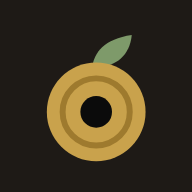
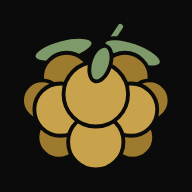
Add files via upload

Changed region(s): [[0.125, 0.125, 0.875, 0.875]]

diff --git a/novidades.html b/novidades.html
@@ -9,11 +9,11 @@
   <meta name="viewport" content="width=device-width, initial-scale=1.0, viewport-fit=cover" />
   <title>Novidades — Hilla</title>
   <meta name="theme-color" content="#0b0b0b" />
-  <link rel="icon" href="favicon.ico?v=3" sizes="any" />
-  <link rel="icon" type="image/png" sizes="32x32" href="favicon-32.png?v=3" />
-  <link rel="apple-touch-icon" href="apple-touch-icon.png?v=3" />
+  <link rel="icon" href="favicon.ico?v=4" sizes="any" />
+  <link rel="icon" type="image/png" sizes="32x32" href="favicon-32.png?v=4" />
+  <link rel="apple-touch-icon" href="apple-touch-icon.png?v=4" />
   <link href="fonts.css?v=1" rel="stylesheet">
-  <link rel="stylesheet" href="style.css?v=31" />
+  <link rel="stylesheet" href="style.css?v=32" />
   <style>.nov-data { font-size: 12px; font-weight: 500; letter-spacing: 0; opacity: 0.45; margin-left: 10px; white-space: nowrap; }</style>
 </head>
 <body>
@@ -38,6 +38,12 @@
       <div class="page-eyebrow">O que mudou</div>
       <h1>Novidades</h1>
       <p class="legal-data">Tudo que mudou na Hilla, da versão mais nova para a mais antiga.</p>
+
+      <h2>v1.27 — Símbolo novo <span class="nov-data">18/10/2026</span></h2>
+      <ul>
+        <li>A Hilla ganhou um símbolo novo: um cacho de hilla, a amora-ártica que dá nome ao app.</li>
+        <li>Ele aparece no ícone do app, na aba do navegador, no topo das páginas e no rodapé.</li>
+      </ul>
 
       <h2>v1.26 — First spin <span class="nov-data">16/10/2026</span></h2>
       <ul>
@@ -200,7 +206,7 @@
       </ul>
     </main>
   </div>
-  <footer class="app-footer app-footer-min"><div class="app-footer-marca"><svg class="app-footer-drupa" viewBox="0 0 64 70" width="22" height="24" aria-hidden="true"><path d="M30 20 C31 13 36 6 50 4 C49 15 41 21 30 20Z" fill="#7E9A6A"/><circle cx="32" cy="43" r="25" fill="#C9A24C"/><circle cx="32" cy="43" r="17" fill="none" stroke="#9E7A2E" stroke-width="3"/><circle cx="32" cy="43" r="8" fill="#0B0B0B"/></svg><div class="app-nav-logo">hi<span>ll</span>a</div></div><p>Tudo que vale guardar.</p><p class="app-footer-legal"><a href="privacidade.html">Privacidade</a> · <a href="termos.html">Termos de Uso</a> · <a href="novidades.html">Novidades</a></p><p class="app-footer-legal">Dados de discos: <a href="https://www.discogs.com/">Discogs</a> · <a href="https://www.last.fm/">Last.fm</a> · Spotify. Sem afiliação.</p></footer>
+  <footer class="app-footer app-footer-min"><div class="app-footer-marca"><img class="app-footer-drupa" src="simbolo-mini.svg" width="24" height="24" alt="" aria-hidden="true"><div class="app-nav-logo">hi<span>ll</span>a</div></div><p>Tudo que vale guardar.</p><p class="app-footer-legal"><a href="privacidade.html">Privacidade</a> · <a href="termos.html">Termos de Uso</a> · <a href="novidades.html">Novidades</a></p><p class="app-footer-legal">Dados de discos: <a href="https://www.discogs.com/">Discogs</a> · <a href="https://www.last.fm/">Last.fm</a> · Spotify. Sem afiliação.</p></footer>
   <script>
     // Páginas públicas: sem verificar sessão no servidor. Mostra o nome de
     // quem já está logado neste navegador; senão, o botão vira "Entrar".

diff --git a/estatisticas.html b/estatisticas.html
@@ -9,13 +9,13 @@
   <meta name="viewport" content="width=device-width, initial-scale=1.0, maximum-scale=1.0, user-scalable=no" />
   <title>Hilla — Estatísticas</title>
   <link href="fonts.css?v=1" rel="stylesheet">
-  <link rel="stylesheet" href="style.css?v=30" />
+  <link rel="stylesheet" href="style.css?v=32" />
   <link rel="manifest" href="manifest.json" />
   <meta name="theme-color" content="#0b0b0b" />
-    <link rel="icon" type="image/x-icon" href="favicon.ico?v=3" />
-  <link rel="icon" type="image/png" sizes="32x32" href="favicon-32.png?v=3" />
-  <link rel="icon" type="image/png" sizes="16x16" href="favicon-16.png?v=3" />
-<link rel="apple-touch-icon" href="apple-touch-icon.png?v=3" />
+    <link rel="icon" type="image/x-icon" href="favicon.ico?v=4" />
+  <link rel="icon" type="image/png" sizes="32x32" href="favicon-32.png?v=4" />
+  <link rel="icon" type="image/png" sizes="16x16" href="favicon-16.png?v=4" />
+<link rel="apple-touch-icon" href="apple-touch-icon.png?v=4" />
   <meta name="apple-mobile-web-app-capable" content="yes" />
   <meta name="apple-mobile-web-app-status-bar-style" content="black-translucent" />
   <meta name="apple-mobile-web-app-title" content="Hilla" />
@@ -163,7 +163,7 @@
 
   <footer class="app-footer">
     <div class="app-footer-grid">
-      <div class="app-footer-brand"><div class="app-footer-marca"><svg class="app-footer-drupa" viewBox="0 0 64 70" width="22" height="24" aria-hidden="true"><path d="M30 20 C31 13 36 6 50 4 C49 15 41 21 30 20Z" fill="#7E9A6A"/><circle cx="32" cy="43" r="25" fill="#C9A24C"/><circle cx="32" cy="43" r="17" fill="none" stroke="#9E7A2E" stroke-width="3"/><circle cx="32" cy="43" r="8" fill="#0B0B0B"/></svg><div class="app-nav-logo">hi<span>ll</span>a</div></div><p>Tudo que vale guardar.</p><p class="app-footer-legal">Dados de discos: <a href="https://www.discogs.com/">Discogs</a> · <a href="https://www.last.fm/">Last.fm</a> · Spotify. Sem afiliação.</p></div>
+      <div class="app-footer-brand"><div class="app-footer-marca"><img class="app-footer-drupa" src="simbolo-mini.svg" width="24" height="24" alt="" aria-hidden="true"><div class="app-nav-logo">hi<span>ll</span>a</div></div><p>Tudo que vale guardar.</p><p class="app-footer-legal">Dados de discos: <a href="https://www.discogs.com/">Discogs</a> · <a href="https://www.last.fm/">Last.fm</a> · Spotify. Sem afiliação.</p></div>
       <div class="app-footer-col"><h5>Navegar</h5><a href="colecao.html">Prateleira</a><a href="wishlist.html">Wishlist</a><a href="audicoes.html">Audições</a></div>
       <div class="app-footer-col"><h5>Inteligência</h5><a href="radar-musical.html">Radar Musical</a><a href="estatisticas.html">Estatísticas</a><a href="importar.html">Importar</a></div>
       <div class="app-footer-col"><h5>Conta</h5><a href="perfil.html">Perfil e configurações</a><a href="privacidade.html">Privacidade</a><a href="termos.html">Termos de Uso</a><a href="novidades.html">Novidades</a></div>

diff --git a/radar-musical.html b/radar-musical.html
@@ -9,13 +9,13 @@
   <meta name="viewport" content="width=device-width, initial-scale=1.0, maximum-scale=1.0, user-scalable=no" />
   <title>Hilla — Radar Musical</title>
   <link href="fonts.css?v=1" rel="stylesheet">
-  <link rel="stylesheet" href="style.css?v=30" />
+  <link rel="stylesheet" href="style.css?v=32" />
   <link rel="manifest" href="manifest.json" />
   <meta name="theme-color" content="#0b0b0b" />
-    <link rel="icon" type="image/x-icon" href="favicon.ico?v=3" />
-  <link rel="icon" type="image/png" sizes="32x32" href="favicon-32.png?v=3" />
-  <link rel="icon" type="image/png" sizes="16x16" href="favicon-16.png?v=3" />
-<link rel="apple-touch-icon" href="apple-touch-icon.png?v=3" />
+    <link rel="icon" type="image/x-icon" href="favicon.ico?v=4" />
+  <link rel="icon" type="image/png" sizes="32x32" href="favicon-32.png?v=4" />
+  <link rel="icon" type="image/png" sizes="16x16" href="favicon-16.png?v=4" />
+<link rel="apple-touch-icon" href="apple-touch-icon.png?v=4" />
   <meta name="apple-mobile-web-app-capable" content="yes" />
   <meta name="apple-mobile-web-app-status-bar-style" content="black-translucent" />
   <meta name="apple-mobile-web-app-title" content="Hilla" />
@@ -118,7 +118,7 @@
 
   <footer class="app-footer">
     <div class="app-footer-grid">
-      <div class="app-footer-brand"><div class="app-footer-marca"><svg class="app-footer-drupa" viewBox="0 0 64 70" width="22" height="24" aria-hidden="true"><path d="M30 20 C31 13 36 6 50 4 C49 15 41 21 30 20Z" fill="#7E9A6A"/><circle cx="32" cy="43" r="25" fill="#C9A24C"/><circle cx="32" cy="43" r="17" fill="none" stroke="#9E7A2E" stroke-width="3"/><circle cx="32" cy="43" r="8" fill="#0B0B0B"/></svg><div class="app-nav-logo">hi<span>ll</span>a</div></div><p>Tudo que vale guardar.</p><p class="app-footer-legal">Dados de discos: <a href="https://www.discogs.com/">Discogs</a> · <a href="https://www.last.fm/">Last.fm</a> · Spotify. Sem afiliação.</p></div>
+      <div class="app-footer-brand"><div class="app-footer-marca"><img class="app-footer-drupa" src="simbolo-mini.svg" width="24" height="24" alt="" aria-hidden="true"><div class="app-nav-logo">hi<span>ll</span>a</div></div><p>Tudo que vale guardar.</p><p class="app-footer-legal">Dados de discos: <a href="https://www.discogs.com/">Discogs</a> · <a href="https://www.last.fm/">Last.fm</a> · Spotify. Sem afiliação.</p></div>
       <div class="app-footer-col"><h5>Navegar</h5><a href="colecao.html">Prateleira</a><a href="wishlist.html">Wishlist</a><a href="audicoes.html">Audições</a></div>
       <div class="app-footer-col"><h5>Inteligência</h5><a href="radar-musical.html">Radar Musical</a><a href="estatisticas.html">Estatísticas</a><a href="importar.html">Importar</a></div>
       <div class="app-footer-col"><h5>Conta</h5><a href="perfil.html">Perfil e configurações</a><a href="privacidade.html">Privacidade</a><a href="termos.html">Termos de Uso</a><a href="novidades.html">Novidades</a></div>

diff --git a/audicoes.html b/audicoes.html
@@ -9,13 +9,13 @@
   <meta name="viewport" content="width=device-width, initial-scale=1.0, maximum-scale=1.0, user-scalable=no" />
   <title>Hilla — Audições</title>
   <link href="fonts.css?v=1" rel="stylesheet">
-  <link rel="stylesheet" href="style.css?v=31" />
+  <link rel="stylesheet" href="style.css?v=32" />
   <link rel="manifest" href="manifest.json" />
   <meta name="theme-color" content="#0b0b0b" />
-    <link rel="icon" type="image/x-icon" href="favicon.ico?v=3" />
-  <link rel="icon" type="image/png" sizes="32x32" href="favicon-32.png?v=3" />
-  <link rel="icon" type="image/png" sizes="16x16" href="favicon-16.png?v=3" />
-<link rel="apple-touch-icon" href="apple-touch-icon.png?v=3" />
+    <link rel="icon" type="image/x-icon" href="favicon.ico?v=4" />
+  <link rel="icon" type="image/png" sizes="32x32" href="favicon-32.png?v=4" />
+  <link rel="icon" type="image/png" sizes="16x16" href="favicon-16.png?v=4" />
+<link rel="apple-touch-icon" href="apple-touch-icon.png?v=4" />
   <meta name="apple-mobile-web-app-capable" content="yes" />
   <meta name="apple-mobile-web-app-status-bar-style" content="black-translucent" />
   <meta name="apple-mobile-web-app-title" content="Hilla" />
@@ -203,7 +203,7 @@
 
   <footer class="app-footer">
     <div class="app-footer-grid">
-      <div class="app-footer-brand"><div class="app-footer-marca"><svg class="app-footer-drupa" viewBox="0 0 64 70" width="22" height="24" aria-hidden="true"><path d="M30 20 C31 13 36 6 50 4 C49 15 41 21 30 20Z" fill="#7E9A6A"/><circle cx="32" cy="43" r="25" fill="#C9A24C"/><circle cx="32" cy="43" r="17" fill="none" stroke="#9E7A2E" stroke-width="3"/><circle cx="32" cy="43" r="8" fill="#0B0B0B"/></svg><div class="app-nav-logo">hi<span>ll</span>a</div></div><p>Tudo que vale guardar.</p><p class="app-footer-legal">Dados de discos: <a href="https://www.discogs.com/">Discogs</a> · <a href="https://www.last.fm/">Last.fm</a> · Spotify. Sem afiliação.</p></div>
+      <div class="app-footer-brand"><div class="app-footer-marca"><img class="app-footer-drupa" src="simbolo-mini.svg" width="24" height="24" alt="" aria-hidden="true"><div class="app-nav-logo">hi<span>ll</span>a</div></div><p>Tudo que vale guardar.</p><p class="app-footer-legal">Dados de discos: <a href="https://www.discogs.com/">Discogs</a> · <a href="https://www.last.fm/">Last.fm</a> · Spotify. Sem afiliação.</p></div>
       <div class="app-footer-col"><h5>Navegar</h5><a href="colecao.html">Prateleira</a><a href="wishlist.html">Wishlist</a><a href="audicoes.html">Audições</a></div>
       <div class="app-footer-col"><h5>Inteligência</h5><a href="radar-musical.html">Radar Musical</a><a href="estatisticas.html">Estatísticas</a><a href="importar.html">Importar</a></div>
       <div class="app-footer-col"><h5>Conta</h5><a href="perfil.html">Perfil e configurações</a><a href="privacidade.html">Privacidade</a><a href="termos.html">Termos de Uso</a><a href="novidades.html">Novidades</a></div>

diff --git a/importar.html b/importar.html
@@ -9,13 +9,13 @@
   <meta name="viewport" content="width=device-width, initial-scale=1.0, maximum-scale=1.0, user-scalable=no" />
   <title>Hilla — Importar</title>
   <link href="fonts.css?v=1" rel="stylesheet">
-  <link rel="stylesheet" href="style.css?v=30" />
+  <link rel="stylesheet" href="style.css?v=32" />
   <link rel="manifest" href="manifest.json" />
   <meta name="theme-color" content="#0b0b0b" />
-    <link rel="icon" type="image/x-icon" href="favicon.ico?v=3" />
-  <link rel="icon" type="image/png" sizes="32x32" href="favicon-32.png?v=3" />
-  <link rel="icon" type="image/png" sizes="16x16" href="favicon-16.png?v=3" />
-<link rel="apple-touch-icon" href="apple-touch-icon.png?v=3" />
+    <link rel="icon" type="image/x-icon" href="favicon.ico?v=4" />
+  <link rel="icon" type="image/png" sizes="32x32" href="favicon-32.png?v=4" />
+  <link rel="icon" type="image/png" sizes="16x16" href="favicon-16.png?v=4" />
+<link rel="apple-touch-icon" href="apple-touch-icon.png?v=4" />
   <meta name="apple-mobile-web-app-capable" content="yes" />
   <meta name="apple-mobile-web-app-status-bar-style" content="black-translucent" />
   <meta name="apple-mobile-web-app-title" content="Hilla" />
@@ -275,7 +275,7 @@
 
   <footer class="app-footer">
     <div class="app-footer-grid">
-      <div class="app-footer-brand"><div class="app-footer-marca"><svg class="app-footer-drupa" viewBox="0 0 64 70" width="22" height="24" aria-hidden="true"><path d="M30 20 C31 13 36 6 50 4 C49 15 41 21 30 20Z" fill="#7E9A6A"/><circle cx="32" cy="43" r="25" fill="#C9A24C"/><circle cx="32" cy="43" r="17" fill="none" stroke="#9E7A2E" stroke-width="3"/><circle cx="32" cy="43" r="8" fill="#0B0B0B"/></svg><div class="app-nav-logo">hi<span>ll</span>a</div></div><p>Tudo que vale guardar.</p><p class="app-footer-legal">Dados de discos: <a href="https://www.discogs.com/">Discogs</a> · <a href="https://www.last.fm/">Last.fm</a> · Spotify. Sem afiliação.</p></div>
+      <div class="app-footer-brand"><div class="app-footer-marca"><img class="app-footer-drupa" src="simbolo-mini.svg" width="24" height="24" alt="" aria-hidden="true"><div class="app-nav-logo">hi<span>ll</span>a</div></div><p>Tudo que vale guardar.</p><p class="app-footer-legal">Dados de discos: <a href="https://www.discogs.com/">Discogs</a> · <a href="https://www.last.fm/">Last.fm</a> · Spotify. Sem afiliação.</p></div>
       <div class="app-footer-col"><h5>Navegar</h5><a href="colecao.html">Prateleira</a><a href="wishlist.html">Wishlist</a><a href="audicoes.html">Audições</a></div>
       <div class="app-footer-col"><h5>Inteligência</h5><a href="radar-musical.html">Radar Musical</a><a href="estatisticas.html">Estatísticas</a><a href="importar.html">Importar</a></div>
       <div class="app-footer-col"><h5>Conta</h5><a href="perfil.html">Perfil e configurações</a><a href="privacidade.html">Privacidade</a><a href="termos.html">Termos de Uso</a><a href="novidades.html">Novidades</a></div>

diff --git a/wishlist.html b/wishlist.html
@@ -9,13 +9,13 @@
   <meta name="viewport" content="width=device-width, initial-scale=1.0, maximum-scale=1.0, user-scalable=no" />
   <title>Hilla — Wishlist</title>
   <link href="fonts.css?v=1" rel="stylesheet">
-  <link rel="stylesheet" href="style.css?v=31" />
+  <link rel="stylesheet" href="style.css?v=32" />
   <link rel="manifest" href="manifest.json" />
   <meta name="theme-color" content="#0b0b0b" />
-    <link rel="icon" type="image/x-icon" href="favicon.ico?v=3" />
-  <link rel="icon" type="image/png" sizes="32x32" href="favicon-32.png?v=3" />
-  <link rel="icon" type="image/png" sizes="16x16" href="favicon-16.png?v=3" />
-<link rel="apple-touch-icon" href="apple-touch-icon.png?v=3" />
+    <link rel="icon" type="image/x-icon" href="favicon.ico?v=4" />
+  <link rel="icon" type="image/png" sizes="32x32" href="favicon-32.png?v=4" />
+  <link rel="icon" type="image/png" sizes="16x16" href="favicon-16.png?v=4" />
+<link rel="apple-touch-icon" href="apple-touch-icon.png?v=4" />
   <meta name="apple-mobile-web-app-capable" content="yes" />
   <meta name="apple-mobile-web-app-status-bar-style" content="black-translucent" />
   <meta name="apple-mobile-web-app-title" content="Hilla" />
@@ -255,7 +255,7 @@
 
   <footer class="app-footer">
     <div class="app-footer-grid">
-      <div class="app-footer-brand"><div class="app-footer-marca"><svg class="app-footer-drupa" viewBox="0 0 64 70" width="22" height="24" aria-hidden="true"><path d="M30 20 C31 13 36 6 50 4 C49 15 41 21 30 20Z" fill="#7E9A6A"/><circle cx="32" cy="43" r="25" fill="#C9A24C"/><circle cx="32" cy="43" r="17" fill="none" stroke="#9E7A2E" stroke-width="3"/><circle cx="32" cy="43" r="8" fill="#0B0B0B"/></svg><div class="app-nav-logo">hi<span>ll</span>a</div></div><p>Tudo que vale guardar.</p><p class="app-footer-legal">Dados de discos: <a href="https://www.discogs.com/">Discogs</a> · <a href="https://www.last.fm/">Last.fm</a> · Spotify. Sem afiliação.</p></div>
+      <div class="app-footer-brand"><div class="app-footer-marca"><img class="app-footer-drupa" src="simbolo-mini.svg" width="24" height="24" alt="" aria-hidden="true"><div class="app-nav-logo">hi<span>ll</span>a</div></div><p>Tudo que vale guardar.</p><p class="app-footer-legal">Dados de discos: <a href="https://www.discogs.com/">Discogs</a> · <a href="https://www.last.fm/">Last.fm</a> · Spotify. Sem afiliação.</p></div>
       <div class="app-footer-col"><h5>Navegar</h5><a href="colecao.html">Prateleira</a><a href="wishlist.html">Wishlist</a><a href="audicoes.html">Audições</a></div>
       <div class="app-footer-col"><h5>Inteligência</h5><a href="radar-musical.html">Radar Musical</a><a href="estatisticas.html">Estatísticas</a><a href="importar.html">Importar</a></div>
       <div class="app-footer-col"><h5>Conta</h5><a href="perfil.html">Perfil e configurações</a><a href="privacidade.html">Privacidade</a><a href="termos.html">Termos de Uso</a><a href="novidades.html">Novidades</a></div>

diff --git a/perfil.html b/perfil.html
@@ -9,13 +9,13 @@
   <meta name="viewport" content="width=device-width, initial-scale=1.0, maximum-scale=1.0, user-scalable=no" />
   <title>Hilla — Perfil</title>
   <link href="fonts.css?v=1" rel="stylesheet">
-  <link rel="stylesheet" href="style.css?v=30" />
+  <link rel="stylesheet" href="style.css?v=32" />
   <link rel="manifest" href="manifest.json" />
   <meta name="theme-color" content="#0b0b0b" />
-    <link rel="icon" type="image/x-icon" href="favicon.ico?v=3" />
-  <link rel="icon" type="image/png" sizes="32x32" href="favicon-32.png?v=3" />
-  <link rel="icon" type="image/png" sizes="16x16" href="favicon-16.png?v=3" />
-<link rel="apple-touch-icon" href="apple-touch-icon.png?v=3" />
+    <link rel="icon" type="image/x-icon" href="favicon.ico?v=4" />
+  <link rel="icon" type="image/png" sizes="32x32" href="favicon-32.png?v=4" />
+  <link rel="icon" type="image/png" sizes="16x16" href="favicon-16.png?v=4" />
+<link rel="apple-touch-icon" href="apple-touch-icon.png?v=4" />
   <meta name="apple-mobile-web-app-capable" content="yes" />
   <meta name="apple-mobile-web-app-status-bar-style" content="black-translucent" />
   <meta name="apple-mobile-web-app-title" content="Hilla" />
@@ -261,7 +261,7 @@
 
   <footer class="app-footer">
     <div class="app-footer-grid">
-      <div class="app-footer-brand"><div class="app-footer-marca"><svg class="app-footer-drupa" viewBox="0 0 64 70" width="22" height="24" aria-hidden="true"><path d="M30 20 C31 13 36 6 50 4 C49 15 41 21 30 20Z" fill="#7E9A6A"/><circle cx="32" cy="43" r="25" fill="#C9A24C"/><circle cx="32" cy="43" r="17" fill="none" stroke="#9E7A2E" stroke-width="3"/><circle cx="32" cy="43" r="8" fill="#0B0B0B"/></svg><div class="app-nav-logo">hi<span>ll</span>a</div></div><p>Tudo que vale guardar.</p><p class="app-footer-legal">Dados de discos: <a href="https://www.discogs.com/">Discogs</a> · <a href="https://www.last.fm/">Last.fm</a> · Spotify. Sem afiliação.</p></div>
+      <div class="app-footer-brand"><div class="app-footer-marca"><img class="app-footer-drupa" src="simbolo-mini.svg" width="24" height="24" alt="" aria-hidden="true"><div class="app-nav-logo">hi<span>ll</span>a</div></div><p>Tudo que vale guardar.</p><p class="app-footer-legal">Dados de discos: <a href="https://www.discogs.com/">Discogs</a> · <a href="https://www.last.fm/">Last.fm</a> · Spotify. Sem afiliação.</p></div>
       <div class="app-footer-col"><h5>Navegar</h5><a href="colecao.html">Prateleira</a><a href="wishlist.html">Wishlist</a><a href="audicoes.html">Audições</a></div>
       <div class="app-footer-col"><h5>Inteligência</h5><a href="radar-musical.html">Radar Musical</a><a href="estatisticas.html">Estatísticas</a><a href="importar.html">Importar</a></div>
       <div class="app-footer-col"><h5>Conta</h5><a href="perfil.html">Perfil e configurações</a><a href="privacidade.html">Privacidade</a><a href="termos.html">Termos de Uso</a><a href="novidades.html">Novidades</a></div>

diff --git a/index.html b/index.html
@@ -16,13 +16,13 @@
   <meta property="og:url" content="https://hilla.com.br/" />
   <meta property="og:image" content="https://hilla.com.br/apple-touch-icon.png" />
   <link href="fonts.css?v=1" rel="stylesheet">
-  <link rel="stylesheet" href="style.css?v=30" />
+  <link rel="stylesheet" href="style.css?v=32" />
   <link rel="manifest" href="manifest.json" />
   <meta name="theme-color" content="#0b0b0b" />
-    <link rel="icon" type="image/x-icon" href="favicon.ico?v=3" />
-  <link rel="icon" type="image/png" sizes="32x32" href="favicon-32.png?v=3" />
-  <link rel="icon" type="image/png" sizes="16x16" href="favicon-16.png?v=3" />
-<link rel="apple-touch-icon" href="apple-touch-icon.png?v=3" />
+    <link rel="icon" type="image/x-icon" href="favicon.ico?v=4" />
+  <link rel="icon" type="image/png" sizes="32x32" href="favicon-32.png?v=4" />
+  <link rel="icon" type="image/png" sizes="16x16" href="favicon-16.png?v=4" />
+<link rel="apple-touch-icon" href="apple-touch-icon.png?v=4" />
   <meta name="apple-mobile-web-app-capable" content="yes" />
   <meta name="apple-mobile-web-app-status-bar-style" content="black-translucent" />
   <meta name="apple-mobile-web-app-title" content="Hilla" />
@@ -97,7 +97,7 @@
 
   <footer class="app-footer">
     <div class="app-footer-grid">
-      <div class="app-footer-brand"><div class="app-footer-marca"><svg class="app-footer-drupa" viewBox="0 0 64 70" width="22" height="24" aria-hidden="true"><path d="M30 20 C31 13 36 6 50 4 C49 15 41 21 30 20Z" fill="#7E9A6A"/><circle cx="32" cy="43" r="25" fill="#C9A24C"/><circle cx="32" cy="43" r="17" fill="none" stroke="#9E7A2E" stroke-width="3"/><circle cx="32" cy="43" r="8" fill="#0B0B0B"/></svg><div class="app-nav-logo">hi<span>ll</span>a</div></div><p>Tudo que vale guardar.</p><p class="app-footer-legal">Dados de discos: <a href="https://www.discogs.com/">Discogs</a> · <a href="https://www.last.fm/">Last.fm</a> · Spotify. Sem afiliação.</p></div>
+      <div class="app-footer-brand"><div class="app-footer-marca"><img class="app-footer-drupa" src="simbolo-mini.svg" width="24" height="24" alt="" aria-hidden="true"><div class="app-nav-logo">hi<span>ll</span>a</div></div><p>Tudo que vale guardar.</p><p class="app-footer-legal">Dados de discos: <a href="https://www.discogs.com/">Discogs</a> · <a href="https://www.last.fm/">Last.fm</a> · Spotify. Sem afiliação.</p></div>
       <div class="app-footer-col"><h5>Navegar</h5><a href="colecao.html">Prateleira</a><a href="wishlist.html">Wishlist</a><a href="audicoes.html">Audições</a></div>
       <div class="app-footer-col"><h5>Inteligência</h5><a href="radar-musical.html">Radar Musical</a><a href="estatisticas.html">Estatísticas</a><a href="importar.html">Importar</a></div>
       <div class="app-footer-col"><h5>Conta</h5><a href="perfil.html">Perfil e configurações</a><a href="privacidade.html">Privacidade</a><a href="termos.html">Termos de Uso</a><a href="novidades.html">Novidades</a></div>

diff --git a/colecao.html b/colecao.html
@@ -10,13 +10,13 @@
   <title>Hilla — Prateleira</title>
   <link href="fonts.css?v=1" rel="stylesheet">
   <script src="html5-qrcode.min.js?v=2.3.8"></script>
-  <link rel="stylesheet" href="style.css?v=31" />
+  <link rel="stylesheet" href="style.css?v=32" />
   <link rel="manifest" href="manifest.json" />
   <meta name="theme-color" content="#0b0b0b" />
-    <link rel="icon" type="image/x-icon" href="favicon.ico?v=3" />
-  <link rel="icon" type="image/png" sizes="32x32" href="favicon-32.png?v=3" />
-  <link rel="icon" type="image/png" sizes="16x16" href="favicon-16.png?v=3" />
-<link rel="apple-touch-icon" href="apple-touch-icon.png?v=3" />
+    <link rel="icon" type="image/x-icon" href="favicon.ico?v=4" />
+  <link rel="icon" type="image/png" sizes="32x32" href="favicon-32.png?v=4" />
+  <link rel="icon" type="image/png" sizes="16x16" href="favicon-16.png?v=4" />
+<link rel="apple-touch-icon" href="apple-touch-icon.png?v=4" />
   <meta name="apple-mobile-web-app-capable" content="yes" />
   <meta name="apple-mobile-web-app-status-bar-style" content="black-translucent" />
   <meta name="apple-mobile-web-app-title" content="Hilla" />
@@ -369,7 +369,7 @@
 
   <footer class="app-footer">
     <div class="app-footer-grid">
-      <div class="app-footer-brand"><div class="app-footer-marca"><svg class="app-footer-drupa" viewBox="0 0 64 70" width="22" height="24" aria-hidden="true"><path d="M30 20 C31 13 36 6 50 4 C49 15 41 21 30 20Z" fill="#7E9A6A"/><circle cx="32" cy="43" r="25" fill="#C9A24C"/><circle cx="32" cy="43" r="17" fill="none" stroke="#9E7A2E" stroke-width="3"/><circle cx="32" cy="43" r="8" fill="#0B0B0B"/></svg><div class="app-nav-logo">hi<span>ll</span>a</div></div><p>Tudo que vale guardar.</p><p class="app-footer-legal">Dados de discos: <a href="https://www.discogs.com/">Discogs</a> · <a href="https://www.last.fm/">Last.fm</a> · Spotify. Sem afiliação.</p></div>
+      <div class="app-footer-brand"><div class="app-footer-marca"><img class="app-footer-drupa" src="simbolo-mini.svg" width="24" height="24" alt="" aria-hidden="true"><div class="app-nav-logo">hi<span>ll</span>a</div></div><p>Tudo que vale guardar.</p><p class="app-footer-legal">Dados de discos: <a href="https://www.discogs.com/">Discogs</a> · <a href="https://www.last.fm/">Last.fm</a> · Spotify. Sem afiliação.</p></div>
       <div class="app-footer-col"><h5>Navegar</h5><a href="colecao.html">Prateleira</a><a href="wishlist.html">Wishlist</a><a href="audicoes.html">Audições</a></div>
       <div class="app-footer-col"><h5>Inteligência</h5><a href="radar-musical.html">Radar Musical</a><a href="estatisticas.html">Estatísticas</a><a href="importar.html">Importar</a></div>
       <div class="app-footer-col"><h5>Conta</h5><a href="perfil.html">Perfil e configurações</a><a href="privacidade.html">Privacidade</a><a href="termos.html">Termos de Uso</a><a href="novidades.html">Novidades</a></div>

diff --git a/perfil-publico.html b/perfil-publico.html
@@ -9,13 +9,13 @@
   <meta name="viewport" content="width=device-width, initial-scale=1.0, maximum-scale=1.0, user-scalable=no" />
   <title>Perfil · Hilla</title>
   <link href="fonts.css?v=1" rel="stylesheet">
-  <link rel="stylesheet" href="style.css?v=30" />
+  <link rel="stylesheet" href="style.css?v=32" />
   <link rel="manifest" href="manifest.json" />
   <meta name="theme-color" content="#0b0b0b" />
-    <link rel="icon" type="image/x-icon" href="favicon.ico?v=3" />
-  <link rel="icon" type="image/png" sizes="32x32" href="favicon-32.png?v=3" />
-  <link rel="icon" type="image/png" sizes="16x16" href="favicon-16.png?v=3" />
-<link rel="apple-touch-icon" href="apple-touch-icon.png?v=3" />
+    <link rel="icon" type="image/x-icon" href="favicon.ico?v=4" />
+  <link rel="icon" type="image/png" sizes="32x32" href="favicon-32.png?v=4" />
+  <link rel="icon" type="image/png" sizes="16x16" href="favicon-16.png?v=4" />
+<link rel="apple-touch-icon" href="apple-touch-icon.png?v=4" />
   <meta name="apple-mobile-web-app-capable" content="yes" />
   <meta name="apple-mobile-web-app-status-bar-style" content="black-translucent" />
   <meta name="apple-mobile-web-app-title" content="Hilla" />
@@ -26,7 +26,7 @@
     <div style="text-align:center; padding:80px 20px; opacity:0.4; font-size:13px;">Carregando perfil...</div>
   </div>
 
-  <footer class="app-footer app-footer-min"><div class="app-footer-marca"><svg class="app-footer-drupa" viewBox="0 0 64 70" width="22" height="24" aria-hidden="true"><path d="M30 20 C31 13 36 6 50 4 C49 15 41 21 30 20Z" fill="#7E9A6A"/><circle cx="32" cy="43" r="25" fill="#C9A24C"/><circle cx="32" cy="43" r="17" fill="none" stroke="#9E7A2E" stroke-width="3"/><circle cx="32" cy="43" r="8" fill="#0B0B0B"/></svg><div class="app-nav-logo">hi<span>ll</span>a</div></div><p>Tudo que vale guardar.</p><p class="app-footer-legal"><a href="privacidade.html">Privacidade</a> · <a href="termos.html">Termos de Uso</a> · <a href="novidades.html">Novidades</a></p><p class="app-footer-legal">Dados de discos: <a href="https://www.discogs.com/">Discogs</a> · <a href="https://www.last.fm/">Last.fm</a> · Spotify. Sem afiliação.</p></footer>
+  <footer class="app-footer app-footer-min"><div class="app-footer-marca"><img class="app-footer-drupa" src="simbolo-mini.svg" width="24" height="24" alt="" aria-hidden="true"><div class="app-nav-logo">hi<span>ll</span>a</div></div><p>Tudo que vale guardar.</p><p class="app-footer-legal"><a href="privacidade.html">Privacidade</a> · <a href="termos.html">Termos de Uso</a> · <a href="novidades.html">Novidades</a></p><p class="app-footer-legal">Dados de discos: <a href="https://www.discogs.com/">Discogs</a> · <a href="https://www.last.fm/">Last.fm</a> · Spotify. Sem afiliação.</p></footer>
 
   <script>
     const API_URL = 'https://fportelada.pythonanywhere.com';

diff --git a/privacidade.html b/privacidade.html
@@ -9,11 +9,11 @@
   <meta name="viewport" content="width=device-width, initial-scale=1.0, viewport-fit=cover" />
   <title>Política de Privacidade — Hilla</title>
   <meta name="theme-color" content="#0b0b0b" />
-  <link rel="icon" href="favicon.ico?v=3" sizes="any" />
-  <link rel="icon" type="image/png" sizes="32x32" href="favicon-32.png?v=3" />
-  <link rel="apple-touch-icon" href="apple-touch-icon.png?v=3" />
+  <link rel="icon" href="favicon.ico?v=4" sizes="any" />
+  <link rel="icon" type="image/png" sizes="32x32" href="favicon-32.png?v=4" />
+  <link rel="apple-touch-icon" href="apple-touch-icon.png?v=4" />
   <link href="fonts.css?v=1" rel="stylesheet">
-  <link rel="stylesheet" href="style.css?v=30" />
+  <link rel="stylesheet" href="style.css?v=32" />
 </head>
 <body>
   <header class="app-nav">
@@ -145,7 +145,7 @@
       <p>Se esta política mudar de forma relevante, vamos avisar dentro do app antes de a mudança valer.</p>
     </main>
   </div>
-  <footer class="app-footer app-footer-min"><div class="app-footer-marca"><svg class="app-footer-drupa" viewBox="0 0 64 70" width="22" height="24" aria-hidden="true"><path d="M30 20 C31 13 36 6 50 4 C49 15 41 21 30 20Z" fill="#7E9A6A"/><circle cx="32" cy="43" r="25" fill="#C9A24C"/><circle cx="32" cy="43" r="17" fill="none" stroke="#9E7A2E" stroke-width="3"/><circle cx="32" cy="43" r="8" fill="#0B0B0B"/></svg><div class="app-nav-logo">hi<span>ll</span>a</div></div><p>Tudo que vale guardar.</p><p class="app-footer-legal"><a href="privacidade.html">Privacidade</a> · <a href="termos.html">Termos de Uso</a> · <a href="novidades.html">Novidades</a></p><p class="app-footer-legal">Dados de discos: <a href="https://www.discogs.com/">Discogs</a> · <a href="https://www.last.fm/">Last.fm</a> · Spotify. Sem afiliação.</p></footer>
+  <footer class="app-footer app-footer-min"><div class="app-footer-marca"><img class="app-footer-drupa" src="simbolo-mini.svg" width="24" height="24" alt="" aria-hidden="true"><div class="app-nav-logo">hi<span>ll</span>a</div></div><p>Tudo que vale guardar.</p><p class="app-footer-legal"><a href="privacidade.html">Privacidade</a> · <a href="termos.html">Termos de Uso</a> · <a href="novidades.html">Novidades</a></p><p class="app-footer-legal">Dados de discos: <a href="https://www.discogs.com/">Discogs</a> · <a href="https://www.last.fm/">Last.fm</a> · Spotify. Sem afiliação.</p></footer>
   <script>
     // Páginas públicas: sem verificar sessão no servidor. Mostra o nome de
     // quem já está logado neste navegador; senão, o botão vira "Entrar".

diff --git a/termos.html b/termos.html
@@ -9,11 +9,11 @@
   <meta name="viewport" content="width=device-width, initial-scale=1.0, viewport-fit=cover" />
   <title>Termos de Uso — Hilla</title>
   <meta name="theme-color" content="#0b0b0b" />
-  <link rel="icon" href="favicon.ico?v=3" sizes="any" />
-  <link rel="icon" type="image/png" sizes="32x32" href="favicon-32.png?v=3" />
-  <link rel="apple-touch-icon" href="apple-touch-icon.png?v=3" />
+  <link rel="icon" href="favicon.ico?v=4" sizes="any" />
+  <link rel="icon" type="image/png" sizes="32x32" href="favicon-32.png?v=4" />
+  <link rel="apple-touch-icon" href="apple-touch-icon.png?v=4" />
   <link href="fonts.css?v=1" rel="stylesheet">
-  <link rel="stylesheet" href="style.css?v=30" />
+  <link rel="stylesheet" href="style.css?v=32" />
 </head>
 <body>
   <header class="app-nav">
@@ -93,7 +93,7 @@
       <p><a href="mailto:contato@hilla.com.br">contato@hilla.com.br</a></p>
     </main>
   </div>
-  <footer class="app-footer app-footer-min"><div class="app-footer-marca"><svg class="app-footer-drupa" viewBox="0 0 64 70" width="22" height="24" aria-hidden="true"><path d="M30 20 C31 13 36 6 50 4 C49 15 41 21 30 20Z" fill="#7E9A6A"/><circle cx="32" cy="43" r="25" fill="#C9A24C"/><circle cx="32" cy="43" r="17" fill="none" stroke="#9E7A2E" stroke-width="3"/><circle cx="32" cy="43" r="8" fill="#0B0B0B"/></svg><div class="app-nav-logo">hi<span>ll</span>a</div></div><p>Tudo que vale guardar.</p><p class="app-footer-legal"><a href="privacidade.html">Privacidade</a> · <a href="termos.html">Termos de Uso</a> · <a href="novidades.html">Novidades</a></p><p class="app-footer-legal">Dados de discos: <a href="https://www.discogs.com/">Discogs</a> · <a href="https://www.last.fm/">Last.fm</a> · Spotify. Sem afiliação.</p></footer>
+  <footer class="app-footer app-footer-min"><div class="app-footer-marca"><img class="app-footer-drupa" src="simbolo-mini.svg" width="24" height="24" alt="" aria-hidden="true"><div class="app-nav-logo">hi<span>ll</span>a</div></div><p>Tudo que vale guardar.</p><p class="app-footer-legal"><a href="privacidade.html">Privacidade</a> · <a href="termos.html">Termos de Uso</a> · <a href="novidades.html">Novidades</a></p><p class="app-footer-legal">Dados de discos: <a href="https://www.discogs.com/">Discogs</a> · <a href="https://www.last.fm/">Last.fm</a> · Spotify. Sem afiliação.</p></footer>
   <script>
     // Páginas públicas: sem verificar sessão no servidor. Mostra o nome de
     // quem já está logado neste navegador; senão, o botão vira "Entrar".
